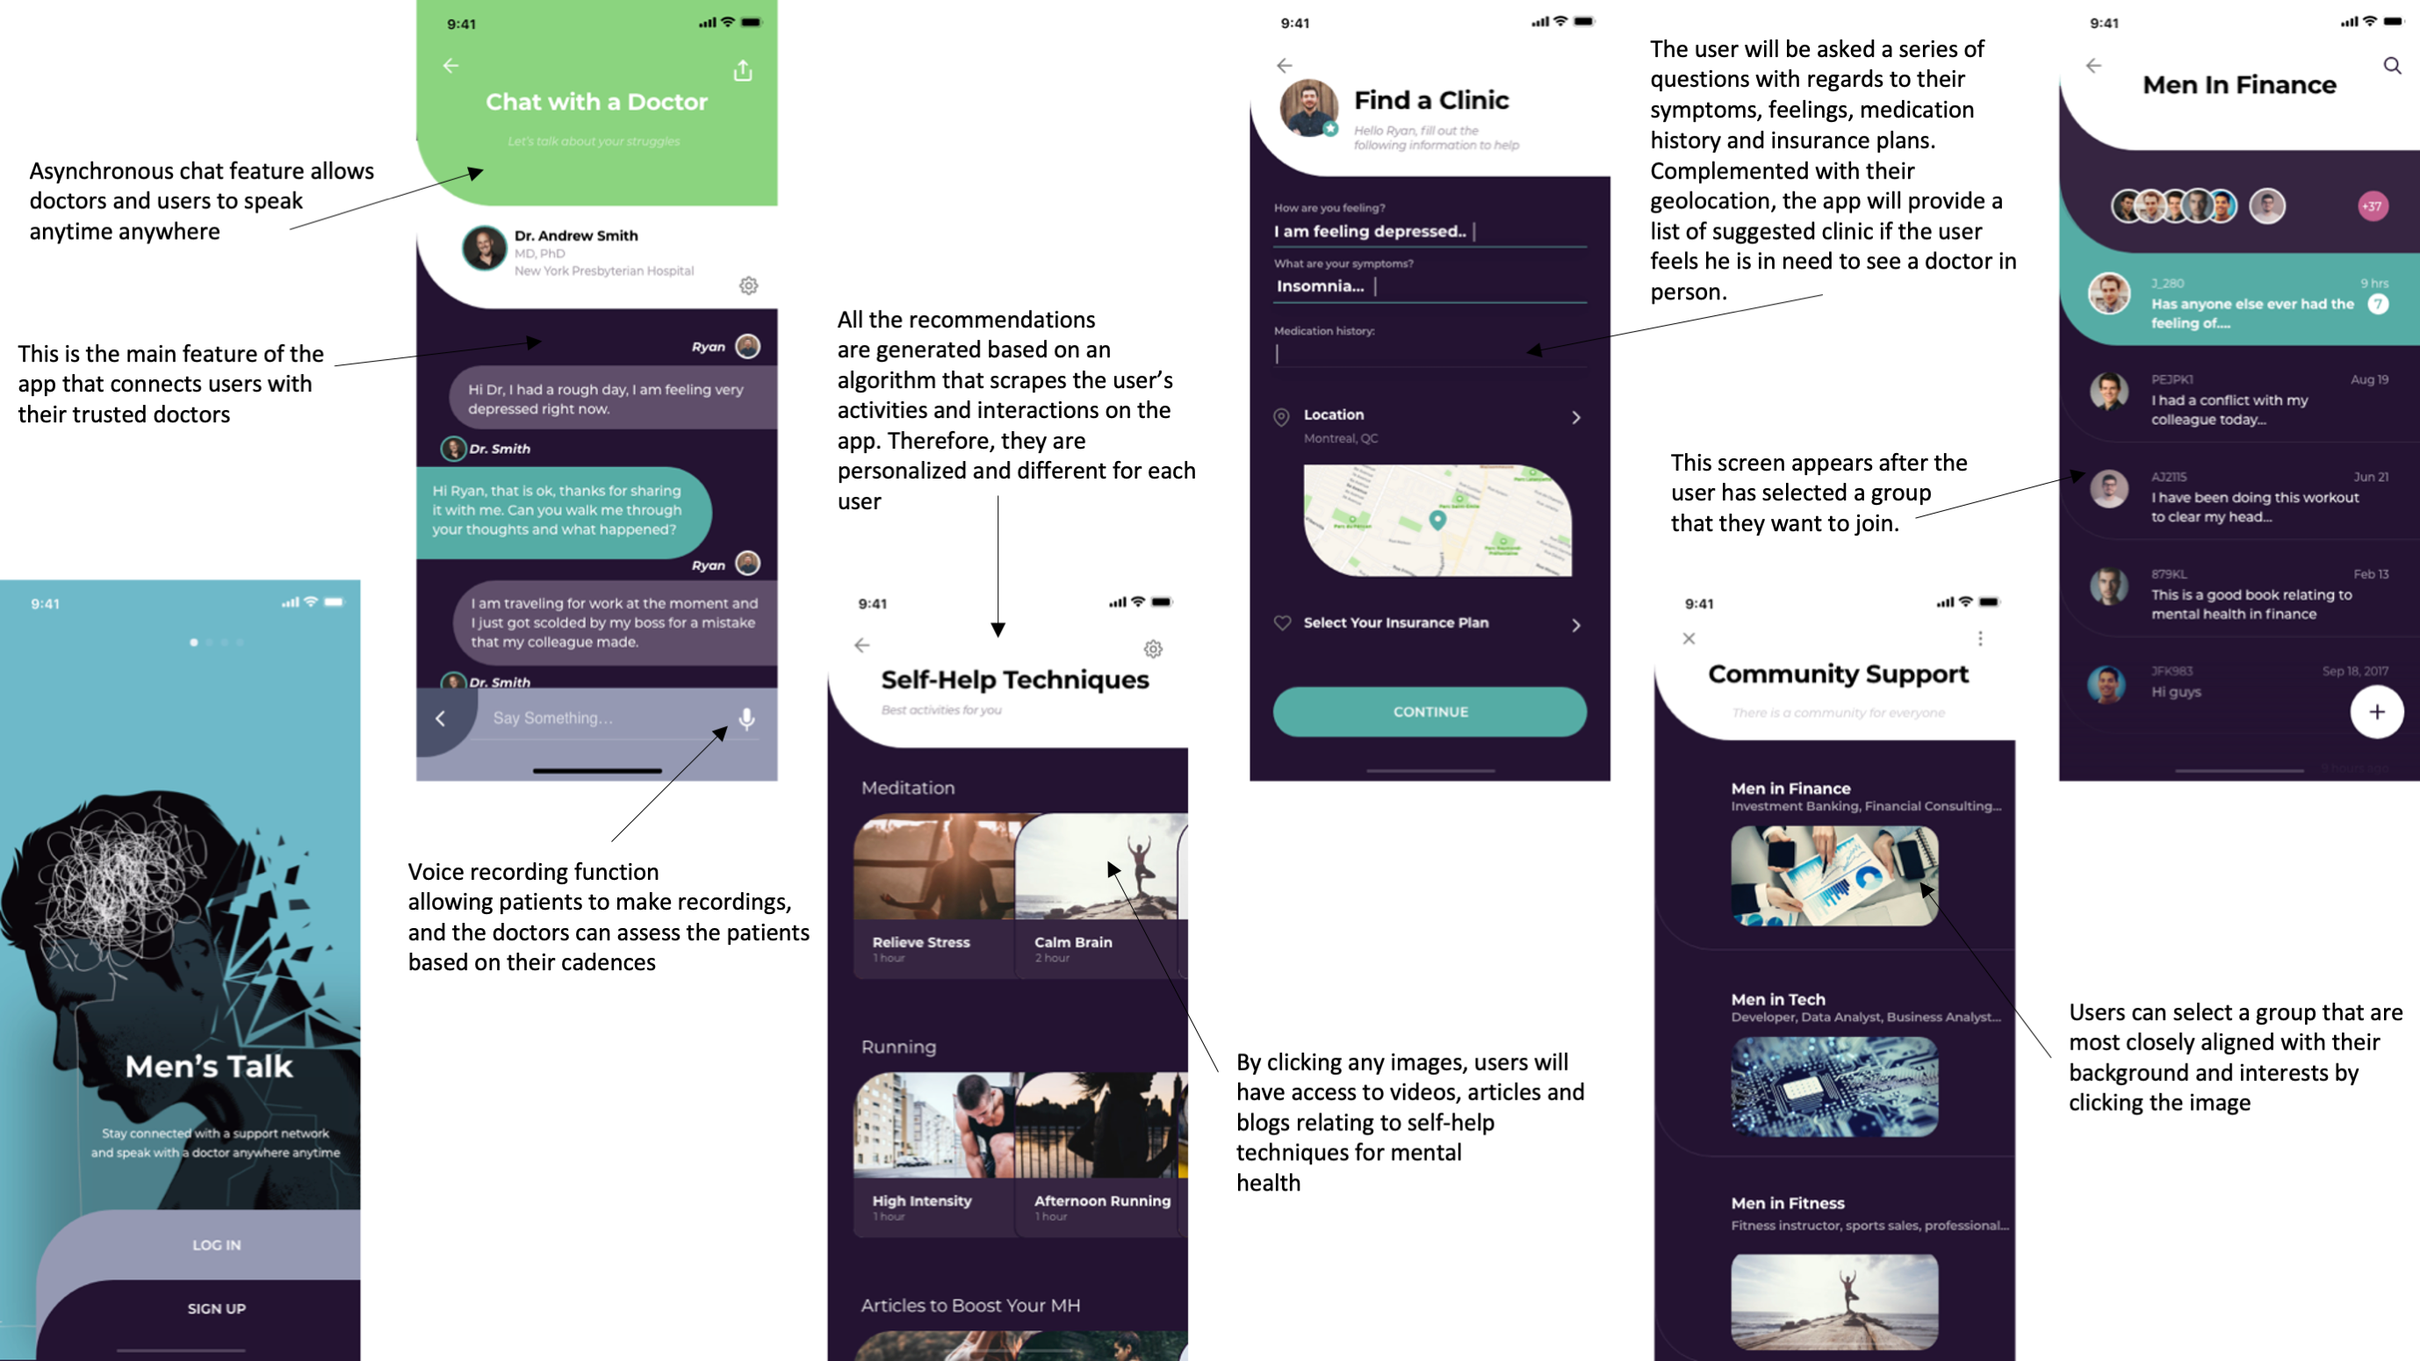
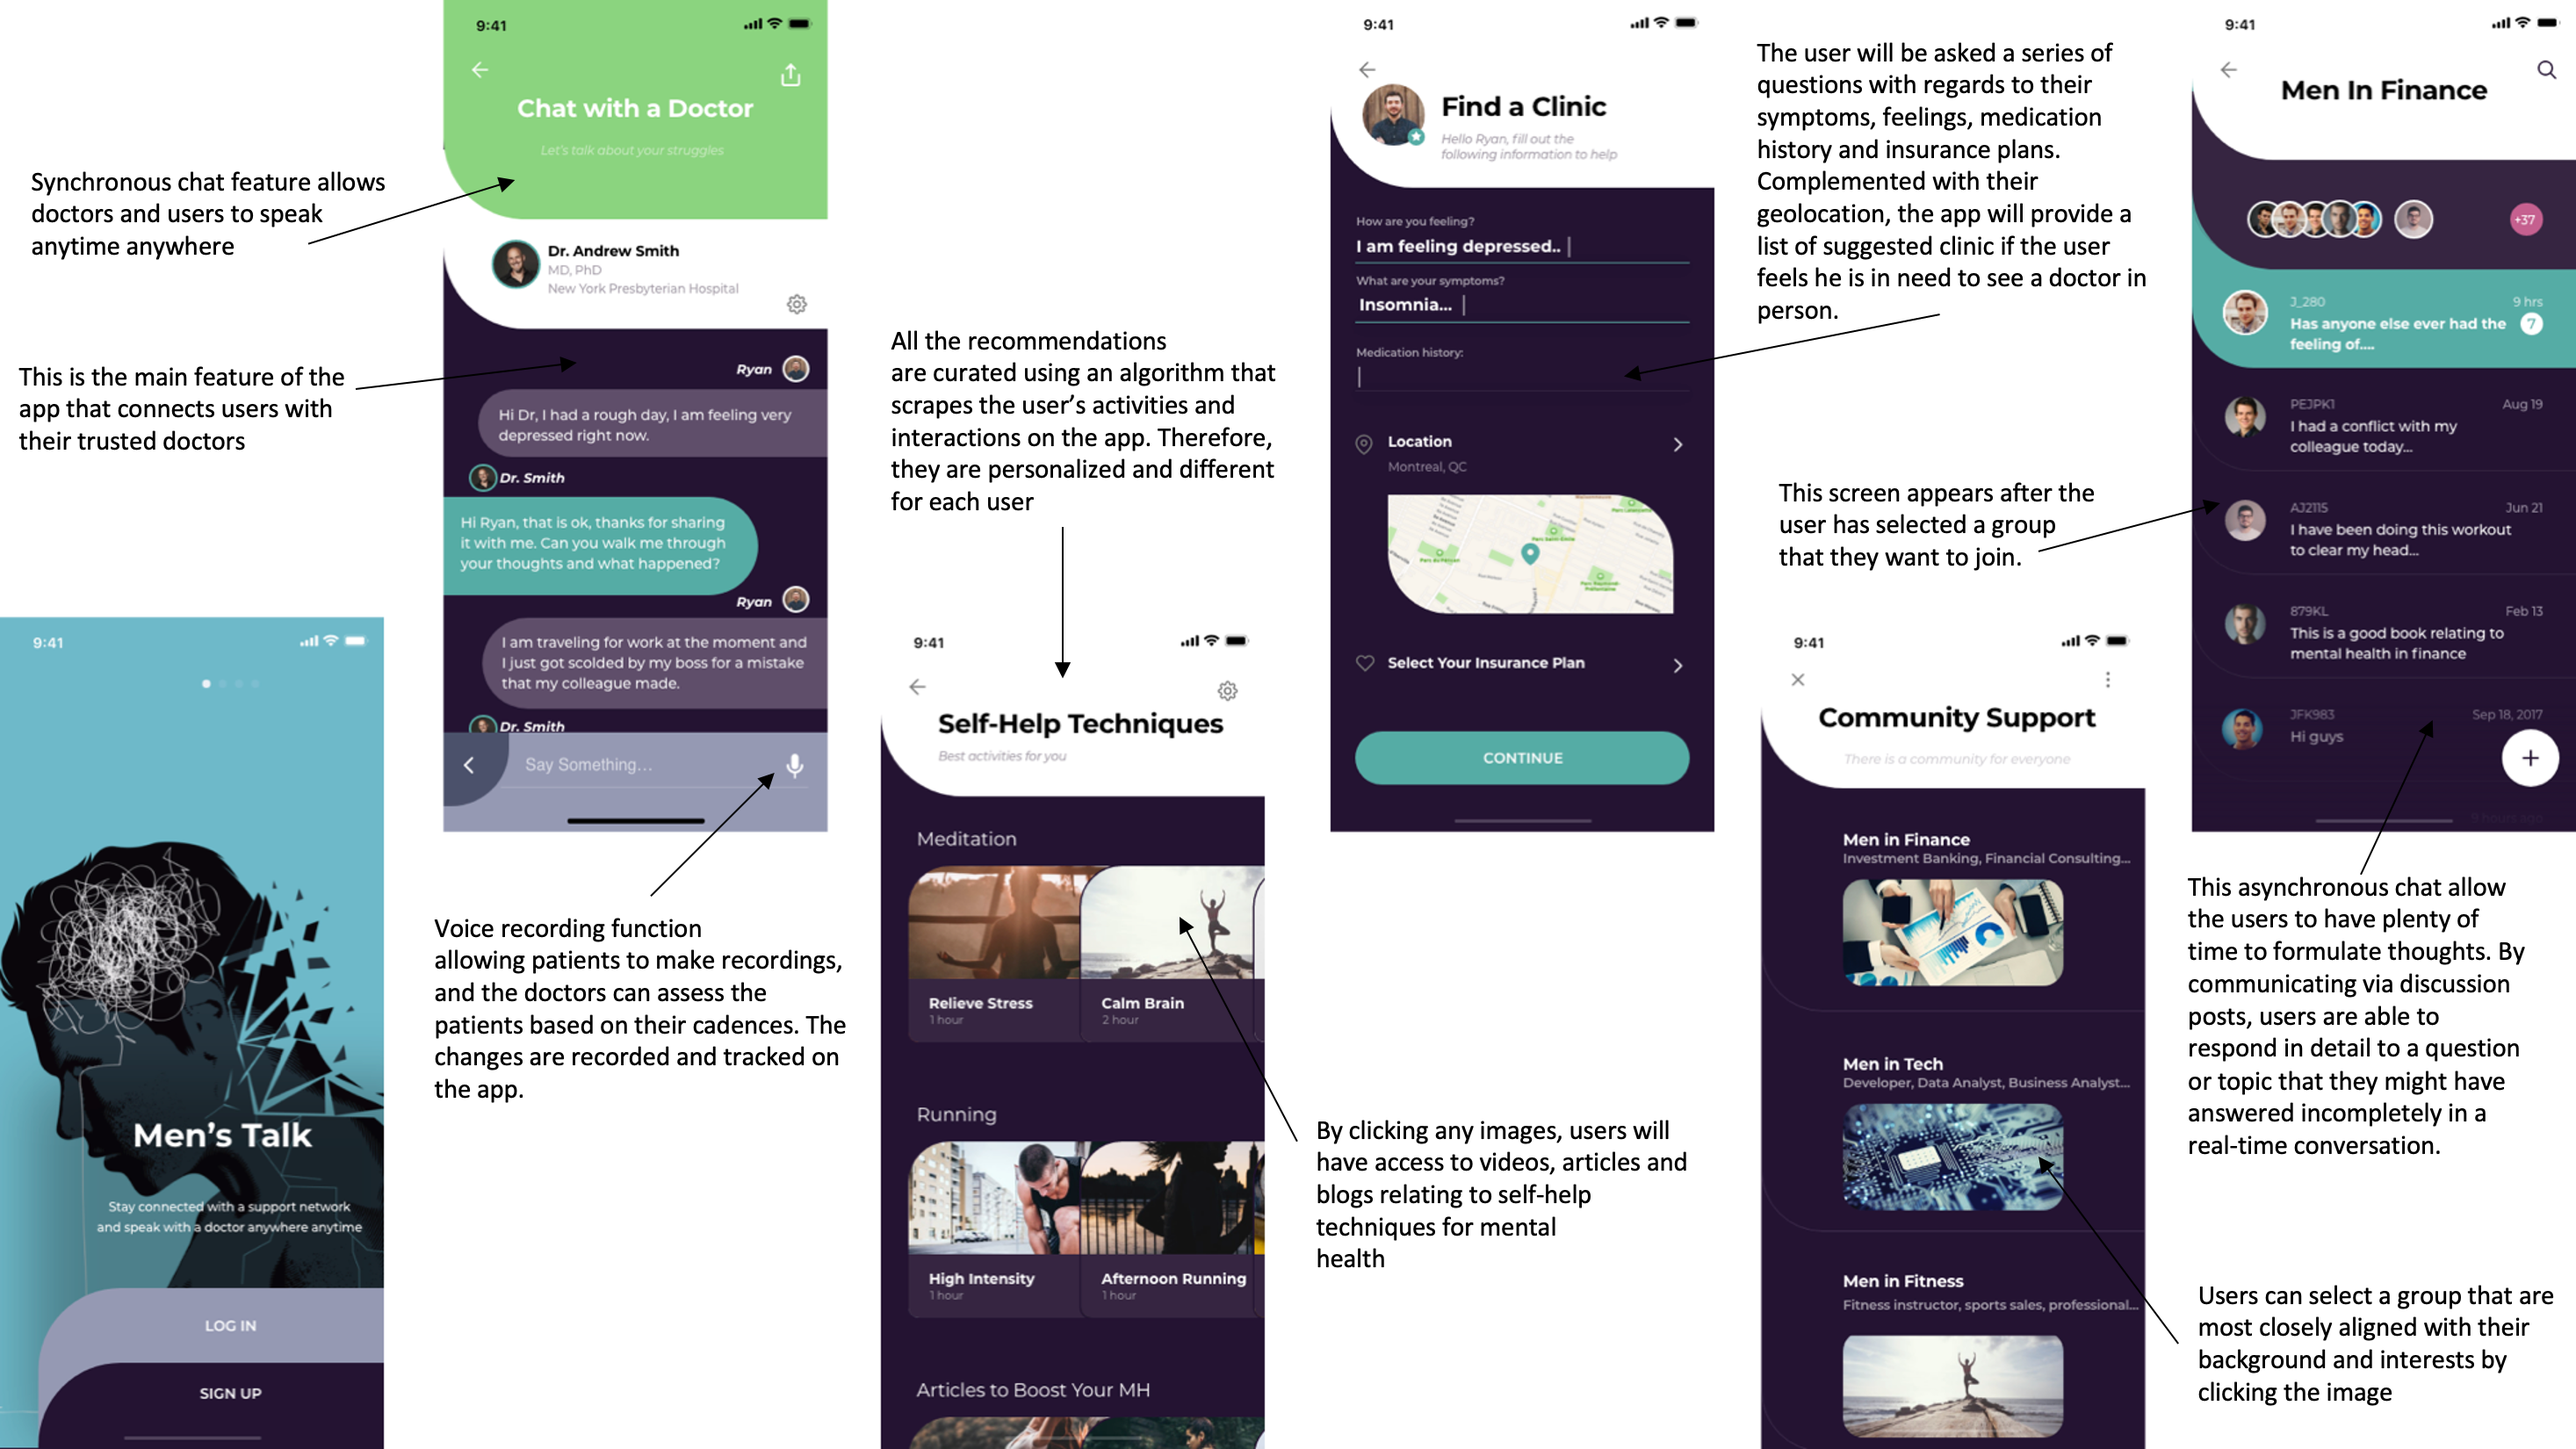
changes

diff --git a/uxresearch1.html b/uxresearch1.html
@@ -341,7 +341,7 @@
                         <h4 class="iy-filter-item-title">Code 6</h4>
                         <p>Higher category: Methods
                             <br>Secondary level category: Communication
-                            <br>Requirement statement: App should allow for asynchronous communication 
+                            <br>Requirement statement: App should allow for synchronous and asynchronous communication 
                             <br>Rationale: It would allow users to communicate with friends/ providers despite of their busy life
                             <br>Note: Text messaging, disguised voice recordings, etc. 
                             </p>  
